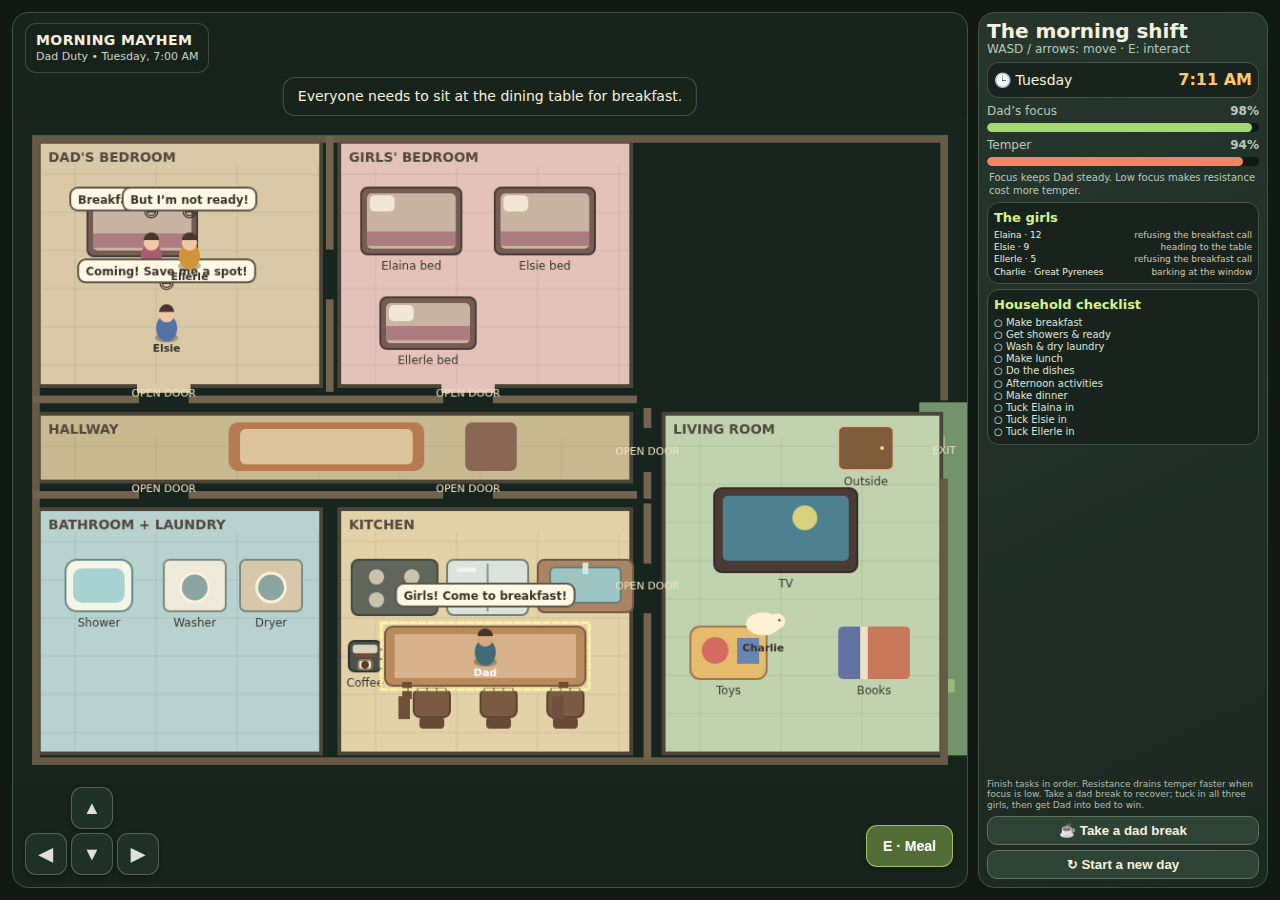
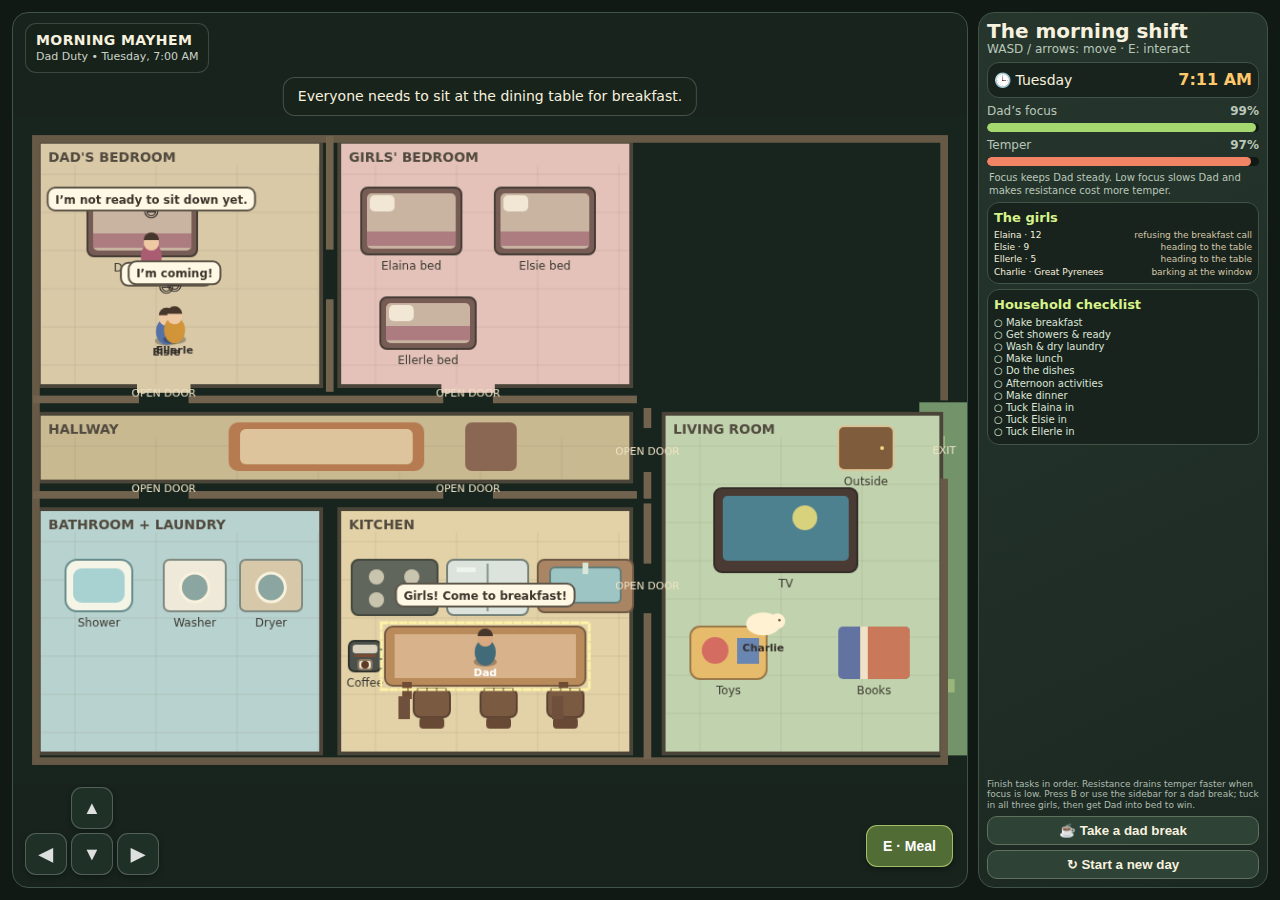
Publish static build for issue #3
Run: 45077164723
Attempt: 1
Generation: 8
Source: 97d37de86bcd6085597def11ddcb7f02b545f4a3

diff --git a/index.html b/index.html
@@ -42,7 +42,7 @@
 <div class="card"><h3>The girls</h3><div class="kids" id="kids"></div></div>
 <div class="card"><h3>Household checklist</h3><div class="tasks" id="tasks"></div></div>
 
-<div class="help">Finish tasks in order. Resistance drains temper faster when focus is low. Take a dad break to recover; tuck in all three girls, then get Dad into bed to win.</div>
+<div class="help">Finish tasks in order. Resistance drains temper faster when focus is low. Press B or use the sidebar for a dad break; tuck in all three girls, then get Dad into bed to win.</div>
 <button class="restart" id="break">☕ Take a dad break</button>
 <button class="restart" id="restart">↻ Start a new day</button>
 </aside>
@@ -200,7 +200,7 @@ function draw(){roomDraw();props.forEach(drawProp);girls.forEach(g=>drawPerson(g
 function nearest(){let best=null,dist=Infinity;for(const p of props){const d=Math.hypot(player.x-(p.x+p.w/2),player.y-(p.y+p.h/2));if(d<Math.max(p.w,p.h)/2+38&&d<dist){best={p,d};dist=d}}return best}
 function toast(t){const el=$('toast');el.textContent=t;el.classList.add('show');messageTimer=2.3}
 let dialogSeq=0;
-function openDialog(title,text,choices){paused=true;const seq=++dialogSeq;$('dialogTitle').textContent=title;$('dialogText').textContent=text;$('dialogChoices').innerHTML='';if(!choices||!choices.length)choices=[{label:'Continue',run:()=>{}}];choices.forEach(c=>{const b=document.createElement('button');b.textContent=c.label;b.onclick=()=>{if(seq!==dialogSeq)return;c.run();if(seq===dialogSeq&&c.keepOpen)return;if(seq===dialogSeq&&!$('dialogShade').classList.contains('open'))closeDialog();else if(seq===dialogSeq&&c.close!==false)closeDialog()};$('dialogChoices').appendChild(b)});$('dialogShade').classList.add('open');keys.clear()}
+function openDialog(title,text,choices){paused=true;const seq=++dialogSeq;$('dialogTitle').textContent=title;$('dialogText').textContent=text;$('dialogChoices').innerHTML='';if(!choices||!choices.length)choices=[{label:'Continue',run:()=>{}}];if(!ended&&breakTimer<=0&&title!=="Dad’s break")choices=choices.concat([{label:'☕ Take a dad break',run:()=>openDadBreak()}]);choices.forEach(c=>{const b=document.createElement('button');b.textContent=c.label;b.onclick=()=>{if(seq!==dialogSeq)return;c.run();if(seq===dialogSeq&&c.keepOpen)return;if(seq===dialogSeq&&!$('dialogShade').classList.contains('open'))closeDialog();else if(seq===dialogSeq&&c.close!==false)closeDialog()};$('dialogChoices').appendChild(b)});$('dialogShade').classList.add('open');keys.clear()}
 function closeDialog(){$('dialogShade').classList.remove('open');paused=false;dialogSeq++}
 function respond(g,style,task=null){if(crankyMode&&style==='delegate'){toast('The girls are too cranky to accept delegated tasks.');g.bubble='I’m too upset right now.';g.bubbleLeft=3.2;return false}let base=g.age<=6?52:g.age<=10?42:34;base+=(g.mood-50)*.18+g.history*2+Math.min(12,(g.askAttempts||0)*3);if(style==='calm')base+=14;if(style==='authoritarian')base-=g.age<=6?10:g.age>=12?16:7;if(style==='bribery')base+=g.age>=12?-6:g.age<=6?18:10;if(style==='delegate')base+=g.age>=10?12:g.age<=6?-20:-4;base-=(100-focus)*.10;const cooperate=Math.random()*100<Math.max(6,Math.min(78,base));if(cooperate){g.mood=Math.min(100,g.mood+(style==='authoritarian'?-2:7));g.history++;g.askAttempts=0;const recovery=(style==='calm'?2:style==='bribery'?2:style==='delegate'?3:1)*(focus<35?.6:1);temper=Math.min(100,temper+recovery);focus=Math.min(100,focus+4);stressLeft=Math.max(0,stressLeft-1.5);g.bubble=style==='authoritarian'?'Fine, I’ll do it now.':g.age<=6?'Okay! I’ll help!':g.age<=10?'Okay, coming now!':'All right, Dad.';g.bubbleLeft=3;toast(`${g.short} cooperated! Patience +${recovery}`)}else{g.mood=Math.max(0,g.mood-(style==='authoritarian'?14:style==='bribery'?7:4));g.history--;g.askAttempts=(g.askAttempts||0)+1;const baseLoss=style==='authoritarian'?(g.age<=6?12:15):style==='bribery'?8:10;const loss=baseLoss+(focus<45?3:0);temper=Math.max(0,temper-loss);focus=Math.max(0,focus-4);stressLeft=Math.max(stressLeft,3.5);g.bubble=style==='authoritarian'?(g.age>=12?'I still don’t want to!':'No, you can’t make me!'):style==='bribery'?(g.age<=6?'That doesn’t sound fair!':'I don’t feel like a reward right now!'):g.age<=6?'No, I don’t want to!':g.age<=10?'Do I have to?':'I’m not ready for that.';g.bubbleLeft=3.2;toast(`${g.short} resisted. Patience -${loss} · focus rattled`)}g.agenda=cooperate?`${g.short==='Ellerle'?'helping a little with':'helping with'} ${task?names[task]:'the next chore'}`:'resisting the request';updateUI();return cooperate}
 function taskSpot(task,g){const i=Math.max(0,girls.filter(x=>!x.dog).indexOf(g));const spots={breakfast:[[445,615],[495,615],[545,615]],lunch:[[445,615],[495,615],[545,615]],dinner:[[445,615],[495,615],[545,615]],showers:[[82,548],[145,548],[255,548]],laundry:[[190,548],[255,548],[135,548]],dishes:[[585,548],[610,548],[560,548]],afternoon:[[810,500],[755,575],[900,575]]};return(spots[task]||spots.afternoon)[i]}
@@ -323,13 +323,14 @@ function step(now){const dt=Math.min(.04,(now-last)/1000);last=now;try{if(starte
   if(temper<=0)ended='lose';
  }
  if(messageTimer>0){messageTimer-=dt;if(messageTimer<=0)$('toast').classList.remove('show')}updateUI();draw()}catch(err){if(!window.__gameErrorShown){window.__gameErrorShown=true;console.error('Recovered from game error:',err);toast('Dad hit a snag—recovering…')}}requestAnimationFrame(step)}
-function updateUI(){const dayMinutes=scheduledDayMinutes();let hh=Math.floor(dayMinutes/60),mm=dayMinutes%60;let ap=hh>=12?'PM':'AM';hh=hh%12||12;$('time').textContent=`${hh}:${String(mm).padStart(2,'0')} ${ap}`;$('focusN').textContent=`${Math.round(focus)}%`;$('focusB').style.width=`${focus}%`;$('focusB').style.background=focus<35?'#e2a45e':'#a5d86e';$('temperN').textContent=`${Math.round(temper)}%`;$('temperB').style.width=`${temper}%`;$('temperB').style.background=temper<35?'#ff6b5a':'#f18465';const dadNote=$('dadNote');if(dadNote)dadNote.textContent=temper<35?'Patience is thin. A dad break will help.':focus<45&&coffeeCooldown<=0?'Dad needs coffee—the kitchen coffee maker is ready.':focus<45&&coffeeCooldown>0?'Coffee is brewing—give it a moment.':focus<35?'Dad is running on fumes—coffee or a break will help.':'Focus keeps Dad steady. Low focus slows Dad and makes resistance cost more temper.';const breakBtn=$('break');breakBtn.textContent=breakTimer>0?`☕ Break ready in ${Math.ceil(breakTimer)}s`:'☕ Take a dad break';breakBtn.disabled=breakTimer>0;
+function updateUI(){const dayMinutes=scheduledDayMinutes();let hh=Math.floor(dayMinutes/60),mm=dayMinutes%60;let ap=hh>=12?'PM':'AM';hh=hh%12||12;$('time').textContent=`${hh}:${String(mm).padStart(2,'0')} ${ap}`;$('focusN').textContent=`${Math.round(focus)}%`;$('focusB').style.width=`${focus}%`;$('focusB').style.background=focus<35?'#e2a45e':'#a5d86e';$('temperN').textContent=`${Math.round(temper)}%`;$('temperB').style.width=`${temper}%`;$('temperB').style.background=temper<35?'#ff6b5a':'#f18465';const dadNote=$('dadNote');if(dadNote)dadNote.textContent=temper<35?'Patience is thin. A dad break will help.':focus<45&&coffeeCooldown<=0?'Dad needs coffee—the kitchen coffee maker is ready.':focus<45&&coffeeCooldown>0?'Coffee is brewing—give it a moment.':focus<35?'Dad is running on fumes—coffee or a break will help.':'Focus keeps Dad steady. Low focus slows Dad and makes resistance cost more temper.';const breakBtn=$('break');breakBtn.textContent=breakTimer>0?`☕ Break ready in ${Math.ceil(breakTimer)}s`:'☕ Take a dad break';
  $('kids').innerHTML=girls.map(g=>`<div class="kid"><span>${g.name}</span><span>${g.agenda}</span></div>`).join('');$('tasks').innerHTML=Object.entries(names).map(([k,n])=>`<div class="${tasks[k]?'done':''}">${tasks[k]?'✓':'○'} ${n}${k==='laundry'&&washTimer>0?` · ${Math.ceil(washTimer)}s`:''}</div>`).join('');const near=nearest();$('act').textContent=near?'E · '+(near.p.label|| (near.p.task==='meal'?'Meal':near.p.task==='laundry'?'Laundry':'Interact')):'E · Interact'}
-window.addEventListener('keydown',e=>{if(['ArrowUp','ArrowDown','ArrowLeft','ArrowRight',' '].includes(e.key))e.preventDefault();if(e.key.toLowerCase()==='e'||e.key===' '){if(!e.repeat)interact()}else keys.add(e.key)});window.addEventListener('keyup',e=>keys.delete(e.key));window.addEventListener('blur',()=>keys.clear());
-$('break').addEventListener('pointerdown',e=>{e.preventDefault();if(breakTimer>0){toast(`Dad needs ${Math.ceil(breakTimer)}s before another break.`);return}openDialog('Dad’s break','Ten quiet minutes away from the noise. Time will pass, but Dad’s patience and focus will recover.',[{label:'Take the break',run:()=>{elapsed+=8;temper=Math.min(100,temper+30);focus=Math.min(100,focus+28);stressLeft=0;breakTimer=30;toast('Dad took a real break. Patience and focus restored.')}},{label:'Push through instead',run:()=>{temper=Math.max(0,temper-2);toast('Dad skips the break. Patience -2')}}])});
+window.addEventListener('keydown',e=>{if(['ArrowUp','ArrowDown','ArrowLeft','ArrowRight',' '].includes(e.key))e.preventDefault();if(e.key.toLowerCase()==='b'){if(!e.repeat)openDadBreak()}else if(e.key.toLowerCase()==='e'||e.key===' '){if(!e.repeat)interact()}else keys.add(e.key)});window.addEventListener('keyup',e=>keys.delete(e.key));window.addEventListener('blur',()=>keys.clear());
+function openDadBreak(){if(ended){toast('The day is already over—start a new day to try again.');return}if(breakTimer>0){toast(`Dad needs ${Math.ceil(breakTimer)}s before another break.`);return}openDialog('Dad’s break','Ten quiet minutes away from the noise. Time will pass, but Dad’s patience and focus will recover.',[{label:'Take the break',run:()=>{elapsed+=8;temper=Math.min(100,temper+30);focus=Math.min(100,focus+28);stressLeft=0;breakTimer=30;toast('Dad took a real break. Patience and focus restored.')}},{label:'Push through instead',run:()=>{temper=Math.max(0,temper-2);toast('Dad skips the break. Patience -2')}}])}
+$('break').addEventListener('pointerdown',e=>{e.preventDefault();openDadBreak()});
 document.querySelectorAll('.pad button').forEach(b=>{const key={up:'ArrowUp',down:'ArrowDown',left:'ArrowLeft',right:'ArrowRight'}[b.dataset.dir];b.addEventListener('pointerdown',e=>{e.preventDefault();keys.add(key);b.setPointerCapture(e.pointerId)});['pointerup','pointercancel','lostpointercapture'].forEach(ev=>b.addEventListener(ev,()=>keys.delete(key)))});$('act').addEventListener('pointerdown',e=>{e.preventDefault();interact()});$('startGame').addEventListener('click',()=>{$('introShade').style.display='none';started=true;keys.clear();});
 $('restart').addEventListener('click',()=>location.reload());
-if(location.search.includes('debug'))window.__game={girls,tasks,player,charlieTimer,state:()=>({temper,focus,elapsed,opening,paused,currentCallTask,showerOrder:[...showerOrder],showerIndex,washTimer,ended,postMealTimer,breakTimer,stressLeft,coffeeCooldown}),setTemper:v=>temper=v,setFocus:v=>focus=v,setWash:v=>washTimer=v,setOpening:v=>opening=v,interact,callGirls,sendGirlToTask,completeTask,respond,promptGirlMove,cheerGirl,openDialog,closeDialog,setDestination,setMultiDestination,roomAt,routeArrived,startShowerSequence,handleShowerInteraction,openLaundryDialog,requestLaundryHelp,offerTaskParenting,showerParenting,delegateTask,redirectGirl};
+if(location.search.includes('debug'))window.__game={girls,tasks,player,charlieTimer,state:()=>({temper,focus,elapsed,opening,paused,currentCallTask,showerOrder:[...showerOrder],showerIndex,washTimer,ended,postMealTimer,breakTimer,stressLeft,coffeeCooldown}),setTemper:v=>temper=v,setFocus:v=>focus=v,setBreak:v=>breakTimer=v,setWash:v=>washTimer=v,setOpening:v=>opening=v,interact,callGirls,sendGirlToTask,completeTask,respond,promptGirlMove,cheerGirl,openDialog,closeDialog,setDestination,setMultiDestination,roomAt,routeArrived,startShowerSequence,handleShowerInteraction,openLaundryDialog,requestLaundryHelp,offerTaskParenting,showerParenting,delegateTask,redirectGirl};
 requestAnimationFrame(step);
 })();
 </script>
